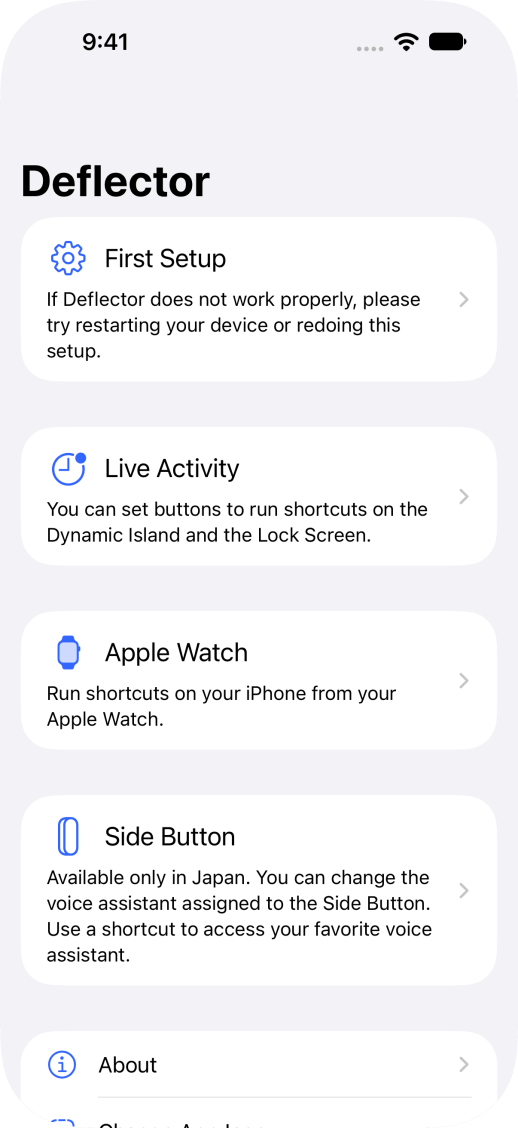
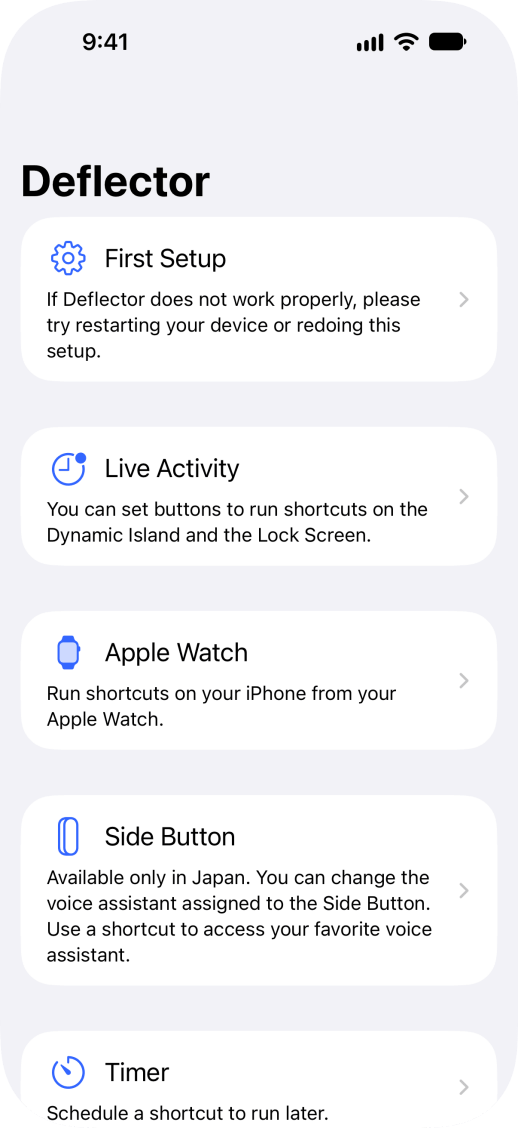
deflector v1.3

Changed region(s): [[0.0927, 0.9309, 0.6178, 1.0], [0.6795, 0.031, 0.7413, 0.0621]]

diff --git a/src/posts/2026/2026-11-11-deflector1.3.md b/src/posts/2026/2026-11-11-deflector1.3.md
@@ -1,0 +1,35 @@
+---
+layout: "post"
+lang: "en"
+permalink: "/posts/deflector1.3/"
+title: "Deflector 1.3 is out"
+icon: "/assets/projects/deflector/icon.png"
+tags: ['deflector']
+---
+
+- Added a timer feature
+  - Schedules a shortcut to run after a specified amount of time
+  - Added shortcuts for timers
+- Added support for text "Input" when running a shortcut from Apple Watch
+  - To use this, you need to update Deflector Automation to the latest version
+  - You can now choose a "Type" in the shortcut that adds a favorite shortcut
+- Added caching for shortcuts fetched from your devices
+- Deflector Automation now prompts you to update when needed
+- Made some other adjustments
+
+Update is available on the [App Store]({{ collections.projects.deflector.links.appstore }}) and [AltStore PAL]({{ collections.projects.deflector.links.altstore }}).
+
+<details lang="ja">
+<summary>日本語</summary>
+
+- タイマー機能を追加しました
+  - 指定時間後にショートカットを予約して実行します
+  - タイマーに関するショートカットを追加しました
+- Apple Watchからショートカットを実行するときに、テキストで「入力」を含められるようにしました
+  - 利用するにはDeflector Automationを最新のものに更新する必要があります
+  - お気に入りのショートカットを追加するショートカットで「種類」を選択できるようにしました
+- 取得したデバイスのショートカットをキャッシュするようにしました
+- 必要と判断されたときにDeflector Automationのアップデートを要求するようにしました
+- その他いくつかの調整を行いました
+
+</details>

diff --git a/src/projects/deflector.md b/src/projects/deflector.md
@@ -9,7 +9,7 @@ preview:
   - "/assets/projects/deflector/preview1.png"
   - "/assets/projects/deflector/preview2.png"
   - "/assets/projects/deflector/preview3.png"
-version: "1.2"
+version: "1.3"
 links:
   itunes_app: "6802068584"
   appstore: "https://apps.apple.com/app/deflector/id6802068584"
